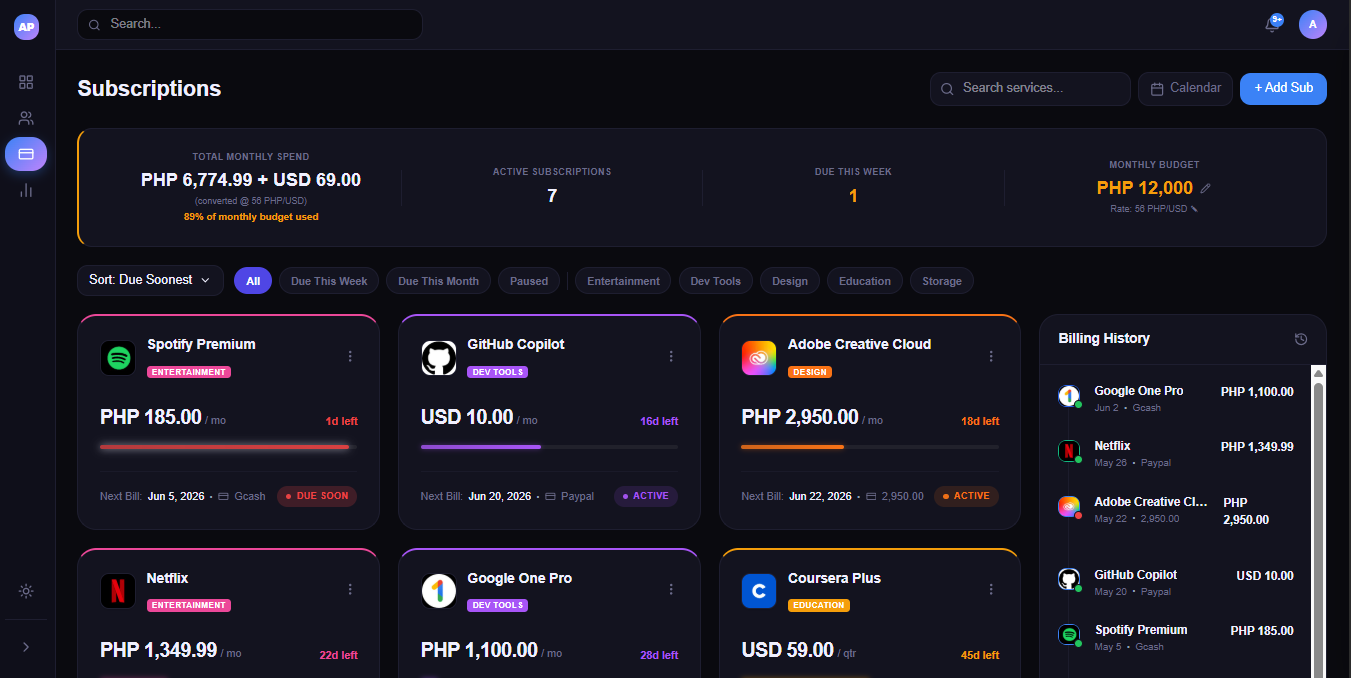
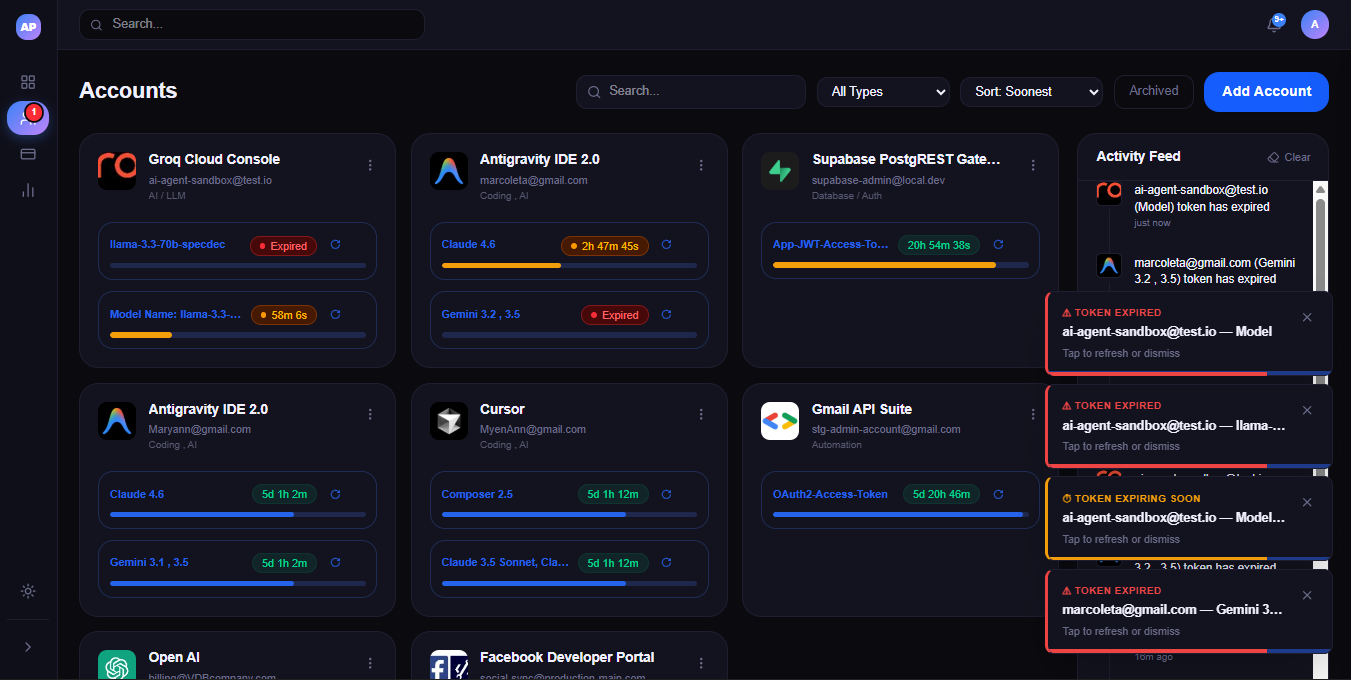
added some photos and add descriptions

diff --git a/src/components/Projects.jsx b/src/components/Projects.jsx
@@ -44,7 +44,7 @@ const featuredProjects = [
     id: 2,
     title: 'AccountPulse',
     slug: 'accountpulse',
-    description: 'Financial account tracking and pulse monitoring dashboard',
+    description: 'A real-time token and subscription management dashboard. Track API token expiration across multiple accounts and AI models, monitor billing cycles with smart renewal alerts, and visualize spending through an analytics dashboard — all in one place. and pulse monitoring dashboard',
     tech: ['JavaScript', 'Tailwind CSS'],
     liveDemo: 'https://account-pulse-v1.vercel.app',
     sourceCode: 'github.com/devbalbuena/AccountPulse',
